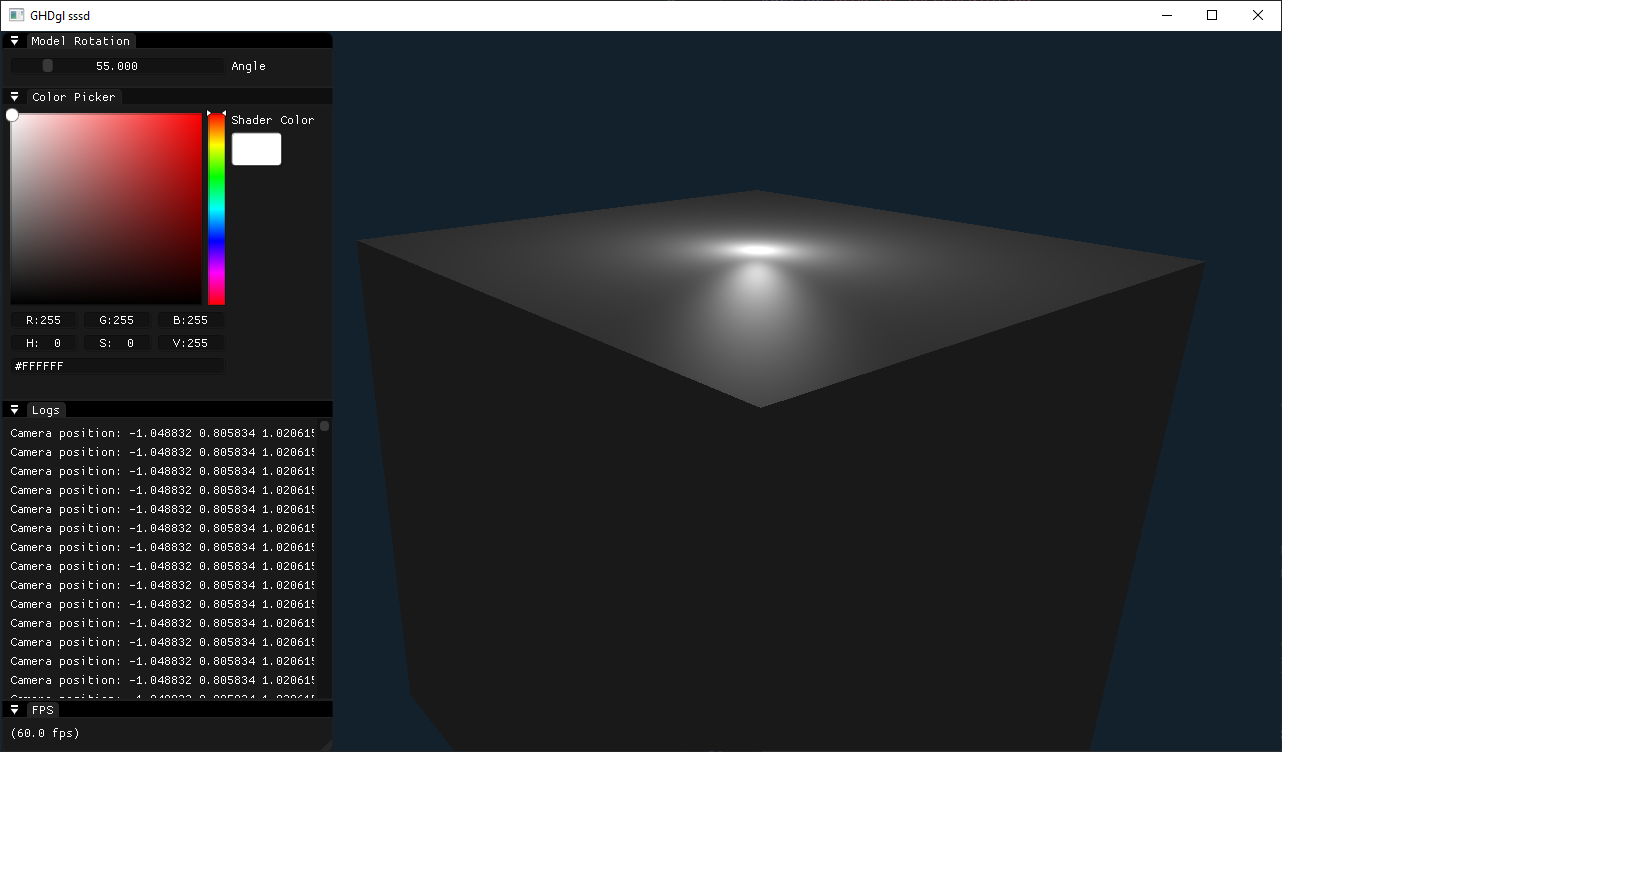
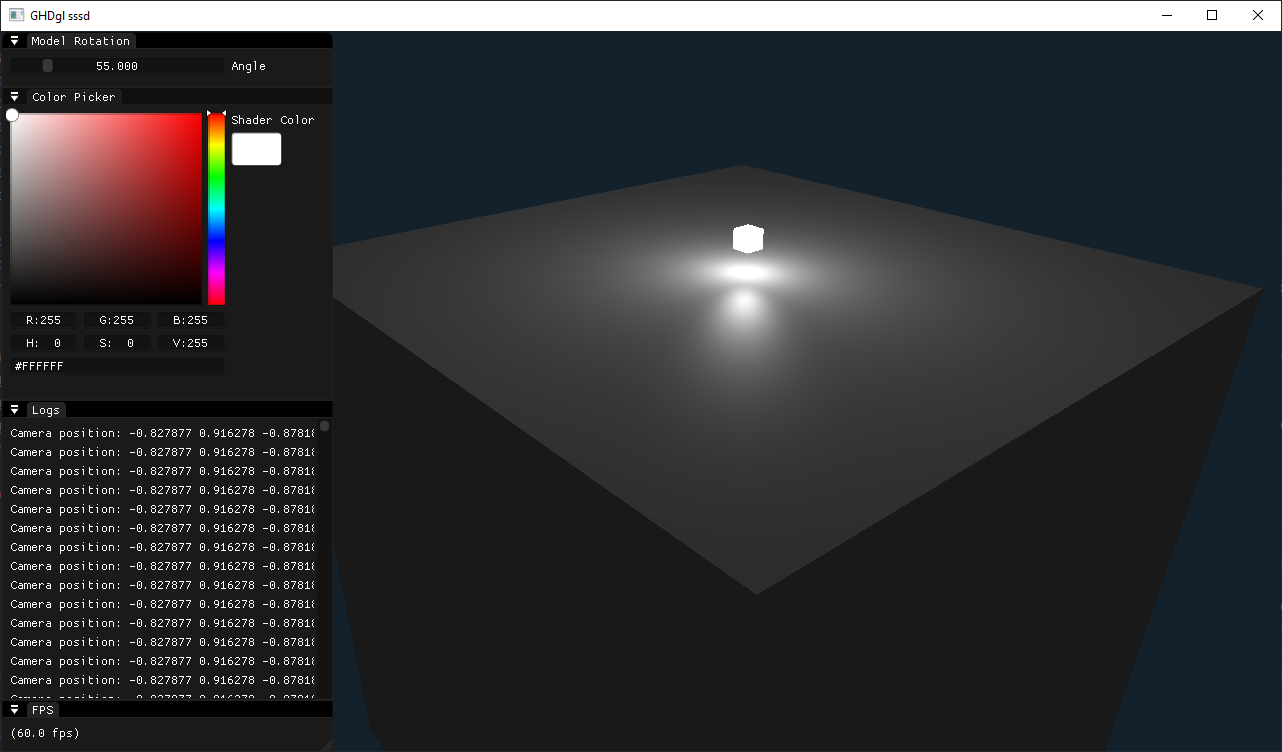
add specular demo + light position visualization

diff --git a/GHDgl/Sources/main.cpp b/GHDgl/Sources/main.cpp
@@ -43,67 +43,42 @@ int main()
 
     ///////////////////////////// Scene Setup /////////////////////////////
 
-    // MVP matrices
+    // Model matrix
     glm::mat4 model = glm::mat4(1.0f);
-
     // 55 degree rotation along x-axis
     // model = glm::rotate(model, glm::radians(30.0f), glm::vec3(1.0f, 0.0f, 0.0f));
     // model = glm::rotate(model, glm::radians(30.0f), glm::vec3(0.0f, 1.0f, 0.0f));
 
-    glm::mat4 view = glm::mat4(1.0f);
-    // note that we're translating the scene in the reverse direction of where we want to move
-    view = glm::translate(view, glm::vec3(0.0f, 1.0f, -3.0f)); 
-
-    glm::mat4 projection;
-    projection = glm::perspective(glm::radians(45.0f), (float)SCR_HEIGHT / (float)SCR_WIDTH, 0.1f, 100.0f);
+    // light matrix
+    glm::vec3 lightPos = glm::vec3(0.0f, 0.55f, 0.0f);
+    glm::vec3 lightColor = glm::vec3(1.0f, 1.0f, 1.0f);
+    glm::mat4 light_model = glm::mat4(1.0f);
+    float lightScale = 0.03f;
+    light_model = glm::translate(light_model, lightPos);
+    light_model = glm::scale(light_model, glm::vec3(lightScale, lightScale, lightScale));
 
     // Camera
     Camera camera(SCR_WIDTH, SCR_HEIGHT, glm::vec3(0.0f, 0.0f, 3.0f), 45.0f, 0.1f, 100.0f);
 
-    //  shader
+    // Box Shader
     Shader currentShader("Shaders/phongShader.vert", "Shaders/phongShader.frag");
     currentShader.use();
     currentShader.uniform_3f("color", 0.0f, 1.0f, 0.0f);
     currentShader.uniform_1f("texture1", 0);
     currentShader.uniform_mat4("model", glm::value_ptr(model));
     currentShader.uniform_3f("viewPos", camera.Position.x, camera.Position.y, camera.Position.z);
-    // flatTextureShader.uniform_mat4("view", glm::value_ptr(view));
-    // flatTextureShader.uniform_mat4("projection", glm::value_ptr(projection));
-
-    // lighting
     currentShader.uniform_1f("lightIntensity", 1.0f);
-    // currentShader.uniform_3f("lightPos", 1.0f, 1.0f, 1.0f); // corner light
-    currentShader.uniform_3f("lightPos", 0.0f, 0.55f, 0.0f); // top light
+    // currentShader.uniform_3f("lightPos", 0.6f, 0.6f, 0.6f); // corner light
+    currentShader.uniform_3f("lightPos", lightPos.x, lightPos.y, lightPos.z); // top light
     currentShader.uniform_3f("lightColor", 1.0f, 1.0f, 1.0f);
+    camera.Matrix(currentShader); // this is what moves your object
 
-    camera.Matrix(currentShader);
-
-    // Triangle color (is set from color picker and is passed to shader as a uniform)
-    glm::vec3 triangleColor(1.0f, 1.0f, 1.0f);
-
-    float triangle[] =
-    {
-        // coordinates       |        color
-        -0.5f, -0.5f, 0.0f,     1.0f, 0.0f, 0.0f,
-        0.5f , -0.5f, 0.0f,     0.0f, 1.0f, 0.0f,
-        0.0f , 0.5f , 0.0f,     0.0f, 0.0f, 1.0f,
-    };
-
-    // Vertices coordinates
-    GLfloat square[] =
-    { //     COORDINATES     /        COLORS      /   TexCoord  //
-        -0.5f, -0.5f, 0.0f,     1.0f, 0.0f, 0.0f,	0.0f, 0.0f, // Lower left corner
-        -0.5f,  0.5f, 0.0f,     0.0f, 1.0f, 0.0f,	0.0f, 1.0f, // Upper left corner
-        0.5f,  0.5f, 0.0f,     0.0f, 0.0f, 1.0f,	1.0f, 1.0f, // Upper right corner
-        0.5f, -0.5f, 0.0f,     1.0f, 1.0f, 1.0f,	1.0f, 0.0f  // Lower right corner
-    };
-
-    // Indices for vertices order
-    GLuint square_indices[] =
-    {
-        0, 2, 1, // Upper triangle
-        0, 3, 2 // Lower triangle
-    };
+    // light Shader (basic white color shader)
+    Shader lightShader("Shaders/flatShader.vert", "Shaders/flatShader.frag");
+    lightShader.use();
+    lightShader.uniform_3f("color", lightColor.x, lightColor.y, lightColor.z);
+    lightShader.uniform_mat4("model", glm::value_ptr(light_model));
+    camera.Matrix(lightShader);
 
     float cube[] = {
         // positions          // colors           // texture coords // normals
@@ -182,6 +157,7 @@ int main()
         processInput(window);
         camera.Inputs(window);
         camera.Matrix(currentShader);
+        camera.Matrix(lightShader);
         camera.UpdatePositionInShader(currentShader);
         gui.log("Camera position: " + std::to_string(camera.Position.x) + " " + std::to_string(camera.Position.y) + " " + std::to_string(camera.Position.z));
 
@@ -201,6 +177,11 @@ int main()
         // glDrawElements(GL_TRIANGLES, 6, GL_UNSIGNED_INT, 0);
         glDrawArrays(GL_TRIANGLES, 0, 36);
         // gui.log("Draw");
+
+        // Render the light
+        lightShader.use();
+        glDrawArrays(GL_TRIANGLES, 0, 36);
+
 
         //////////////////////////////////// UI ////////////////////////////////////
 

diff --git a/README.md b/README.md
@@ -43,9 +43,14 @@ $ ./GHDgl
 
 ## Demos
 
+11. Specular Lighting
+
+Implemented Specular lighting using Phong lighting model and visualized the light using a second small cube.
+![specular](demos/specular.png)
+
 10. Diffuse Lighting
 
-Implemented simple diffuse lighting using Phong reflection model.
+Implemented simple diffuse lighting using Phong lighting model.
 ![diffuse](demos/diffuse.png)
 
 9. Normal
